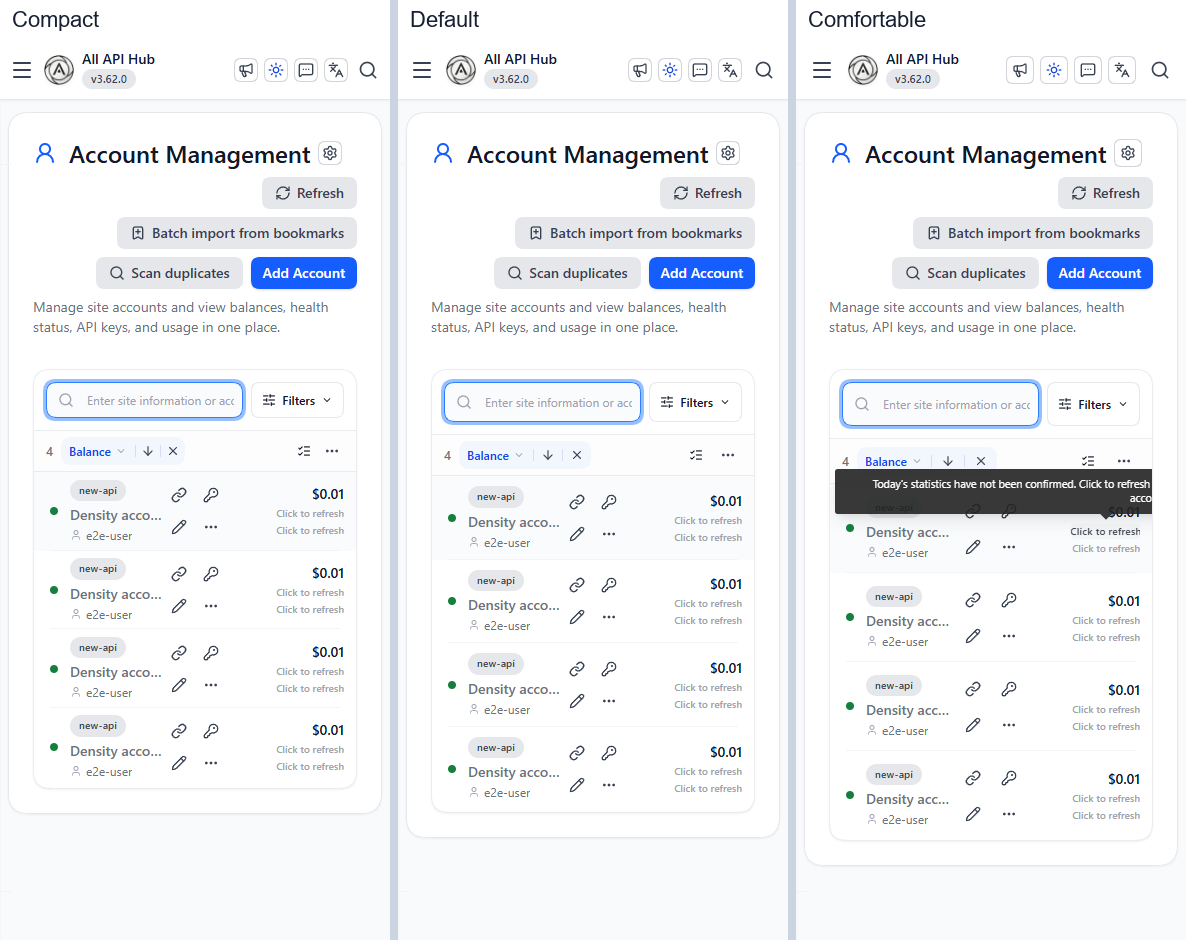
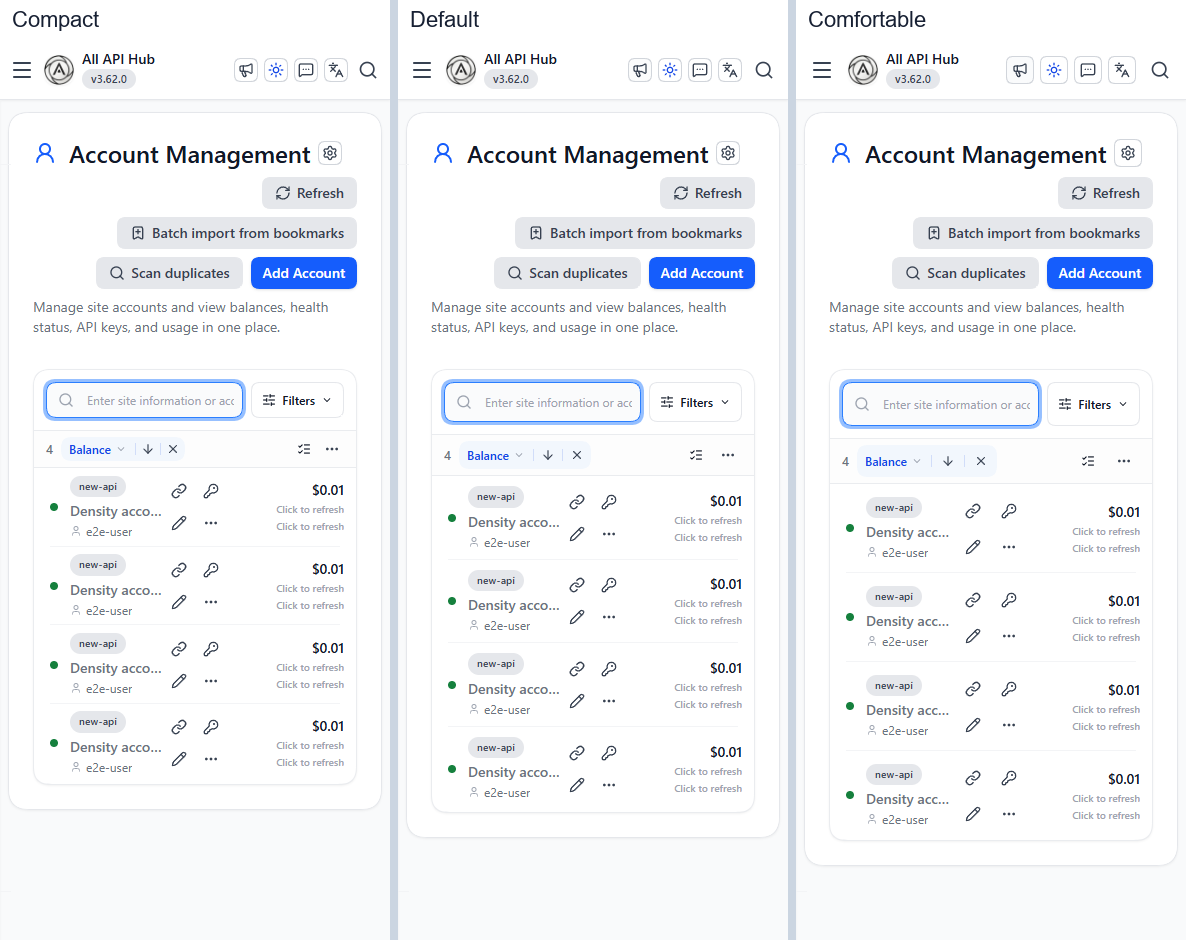
test(appearance): refresh aligned density comparisons

diff --git a/e2e/densitySettings.spec.ts b/e2e/densitySettings.spec.ts
@@ -195,7 +195,14 @@ for (const width of [1280, 390, 320]) {
           ),
         ).toBe(true)
         // Scroll the measured row into view so narrow screenshots include results.
-        await row.scrollIntoViewIfNeeded()
+        await row.evaluate((element) =>
+          element.scrollIntoView({ block: "center", behavior: "instant" }),
+        )
+        await page.mouse.move(0, 0)
+        await expect(page.getByRole("tooltip")).toHaveCount(0)
+        await expect(
+          page.getByText("Model data loaded successfully", { exact: true }),
+        ).toHaveCount(0)
         // Screenshots capture actual rendered rows, controls and wrapping.
         await page.screenshot({
           path: testInfo.outputPath(
